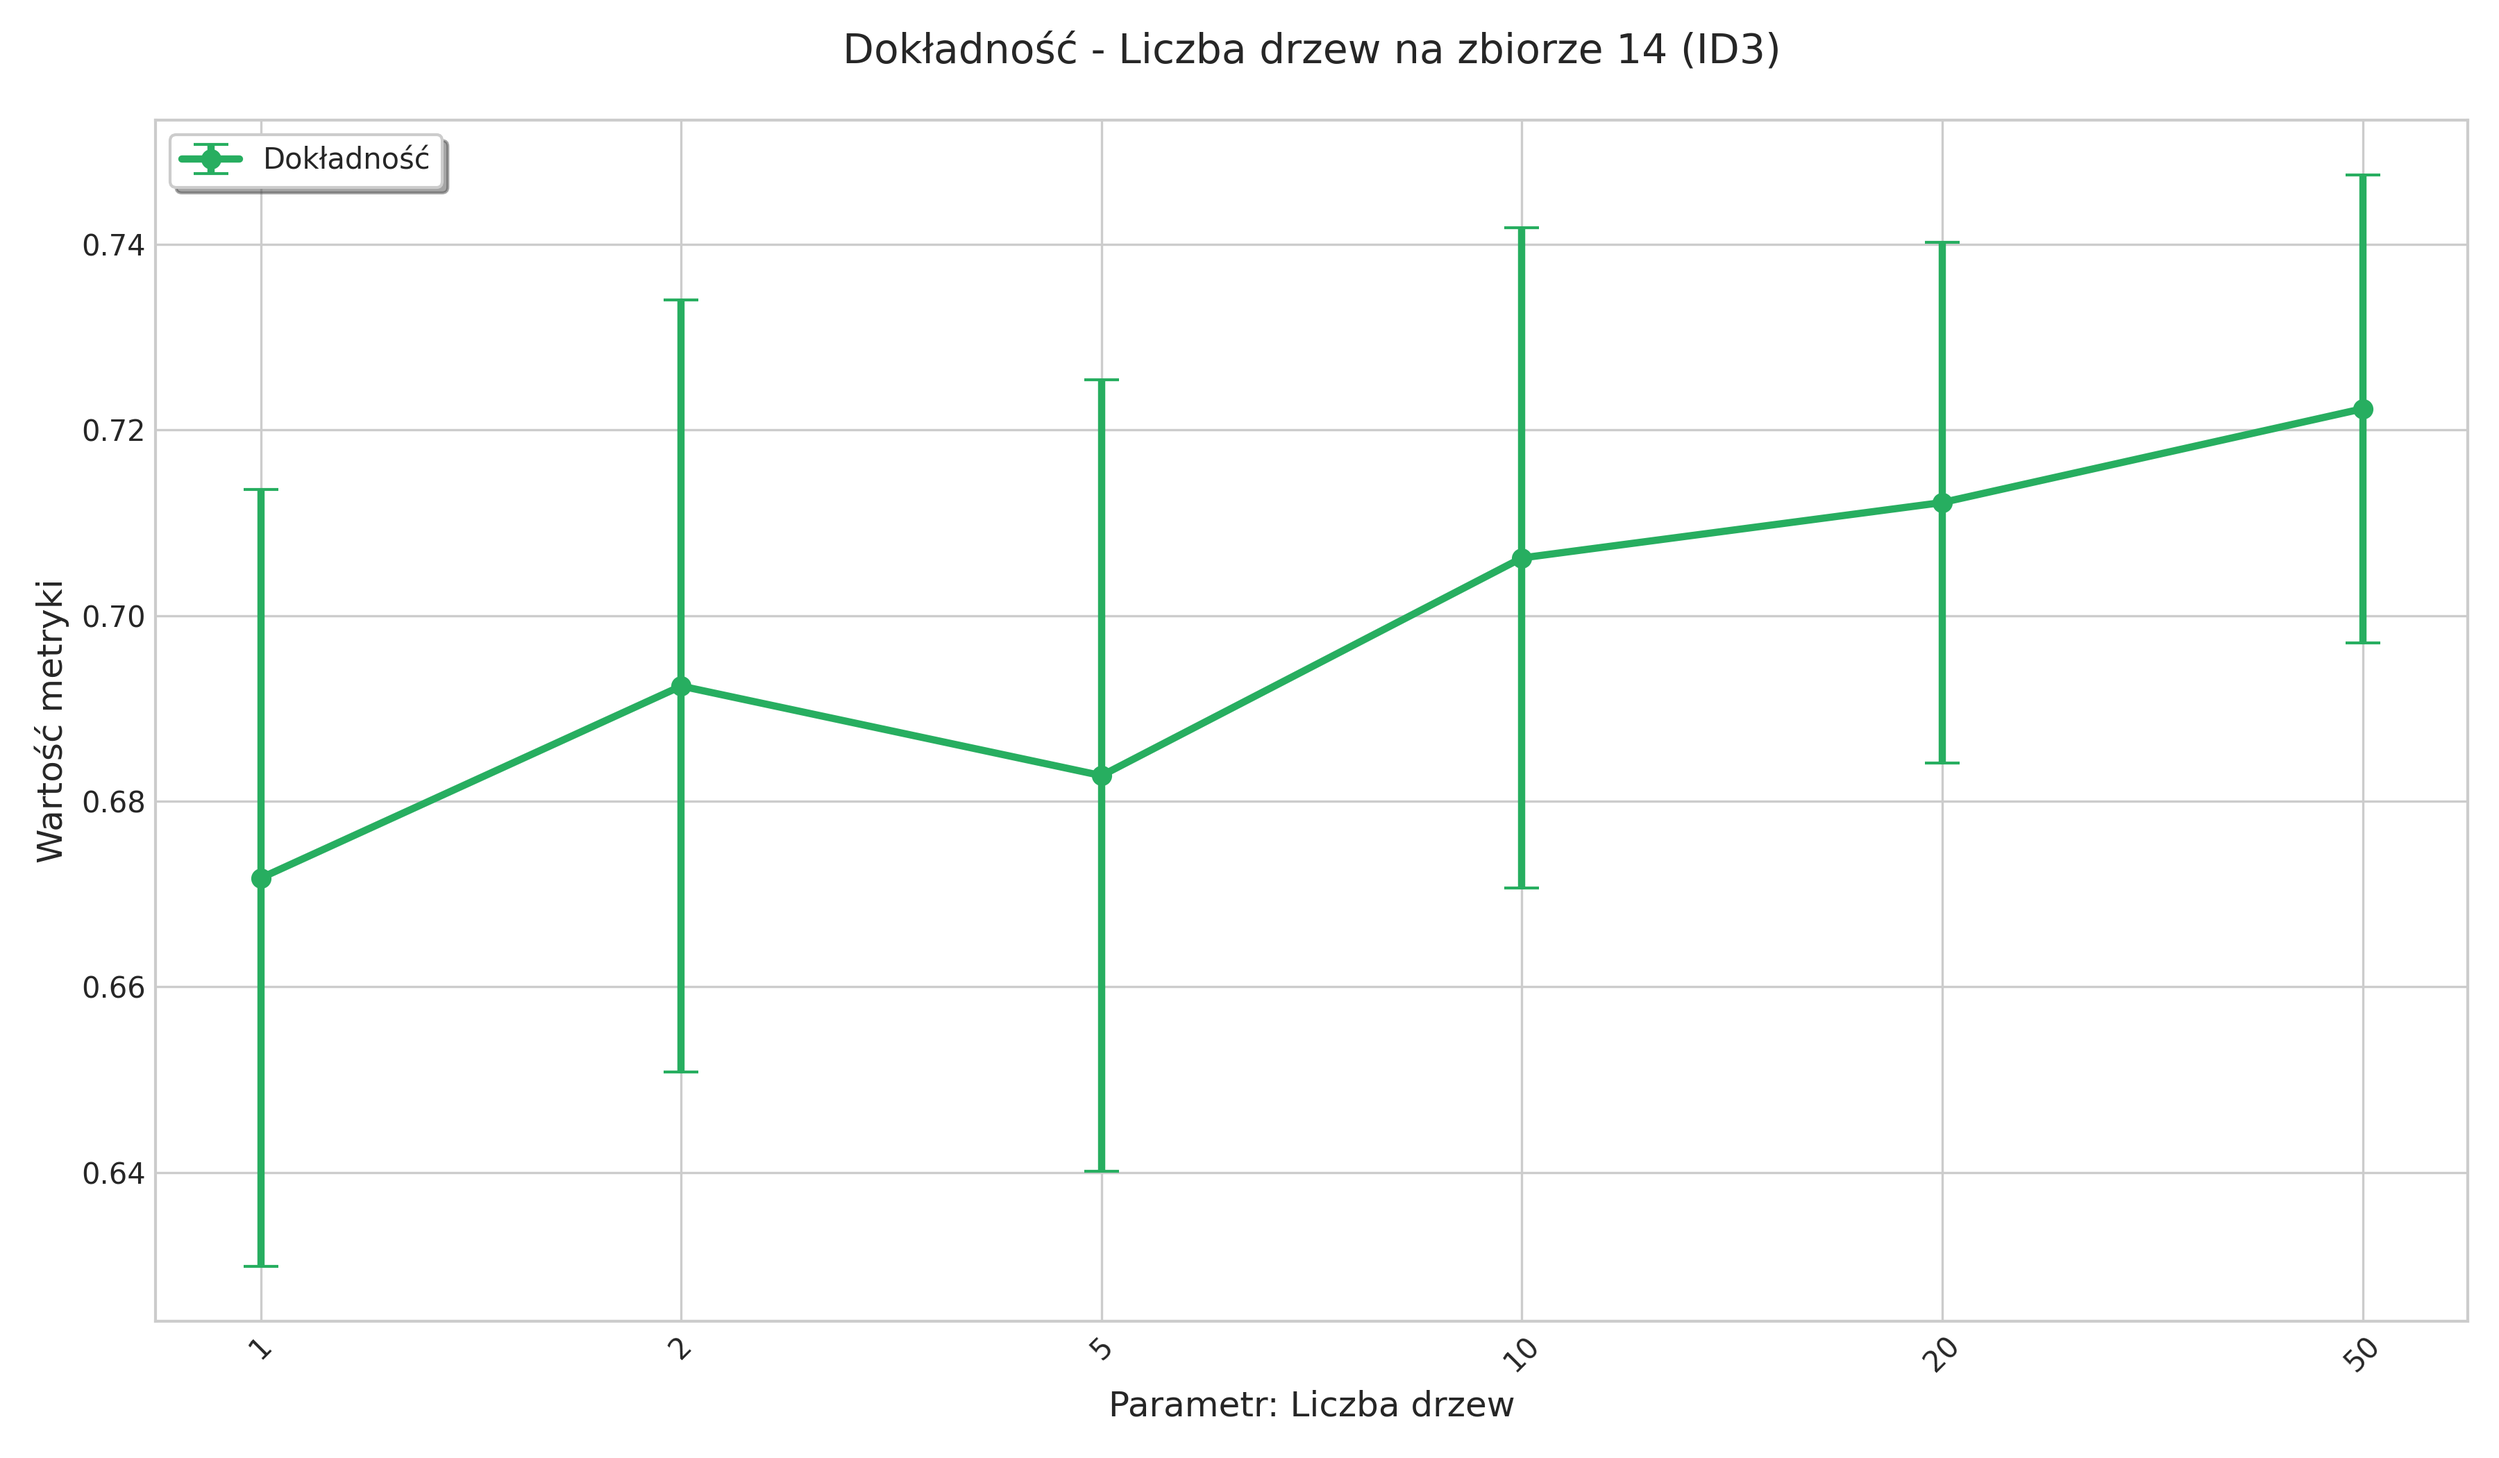
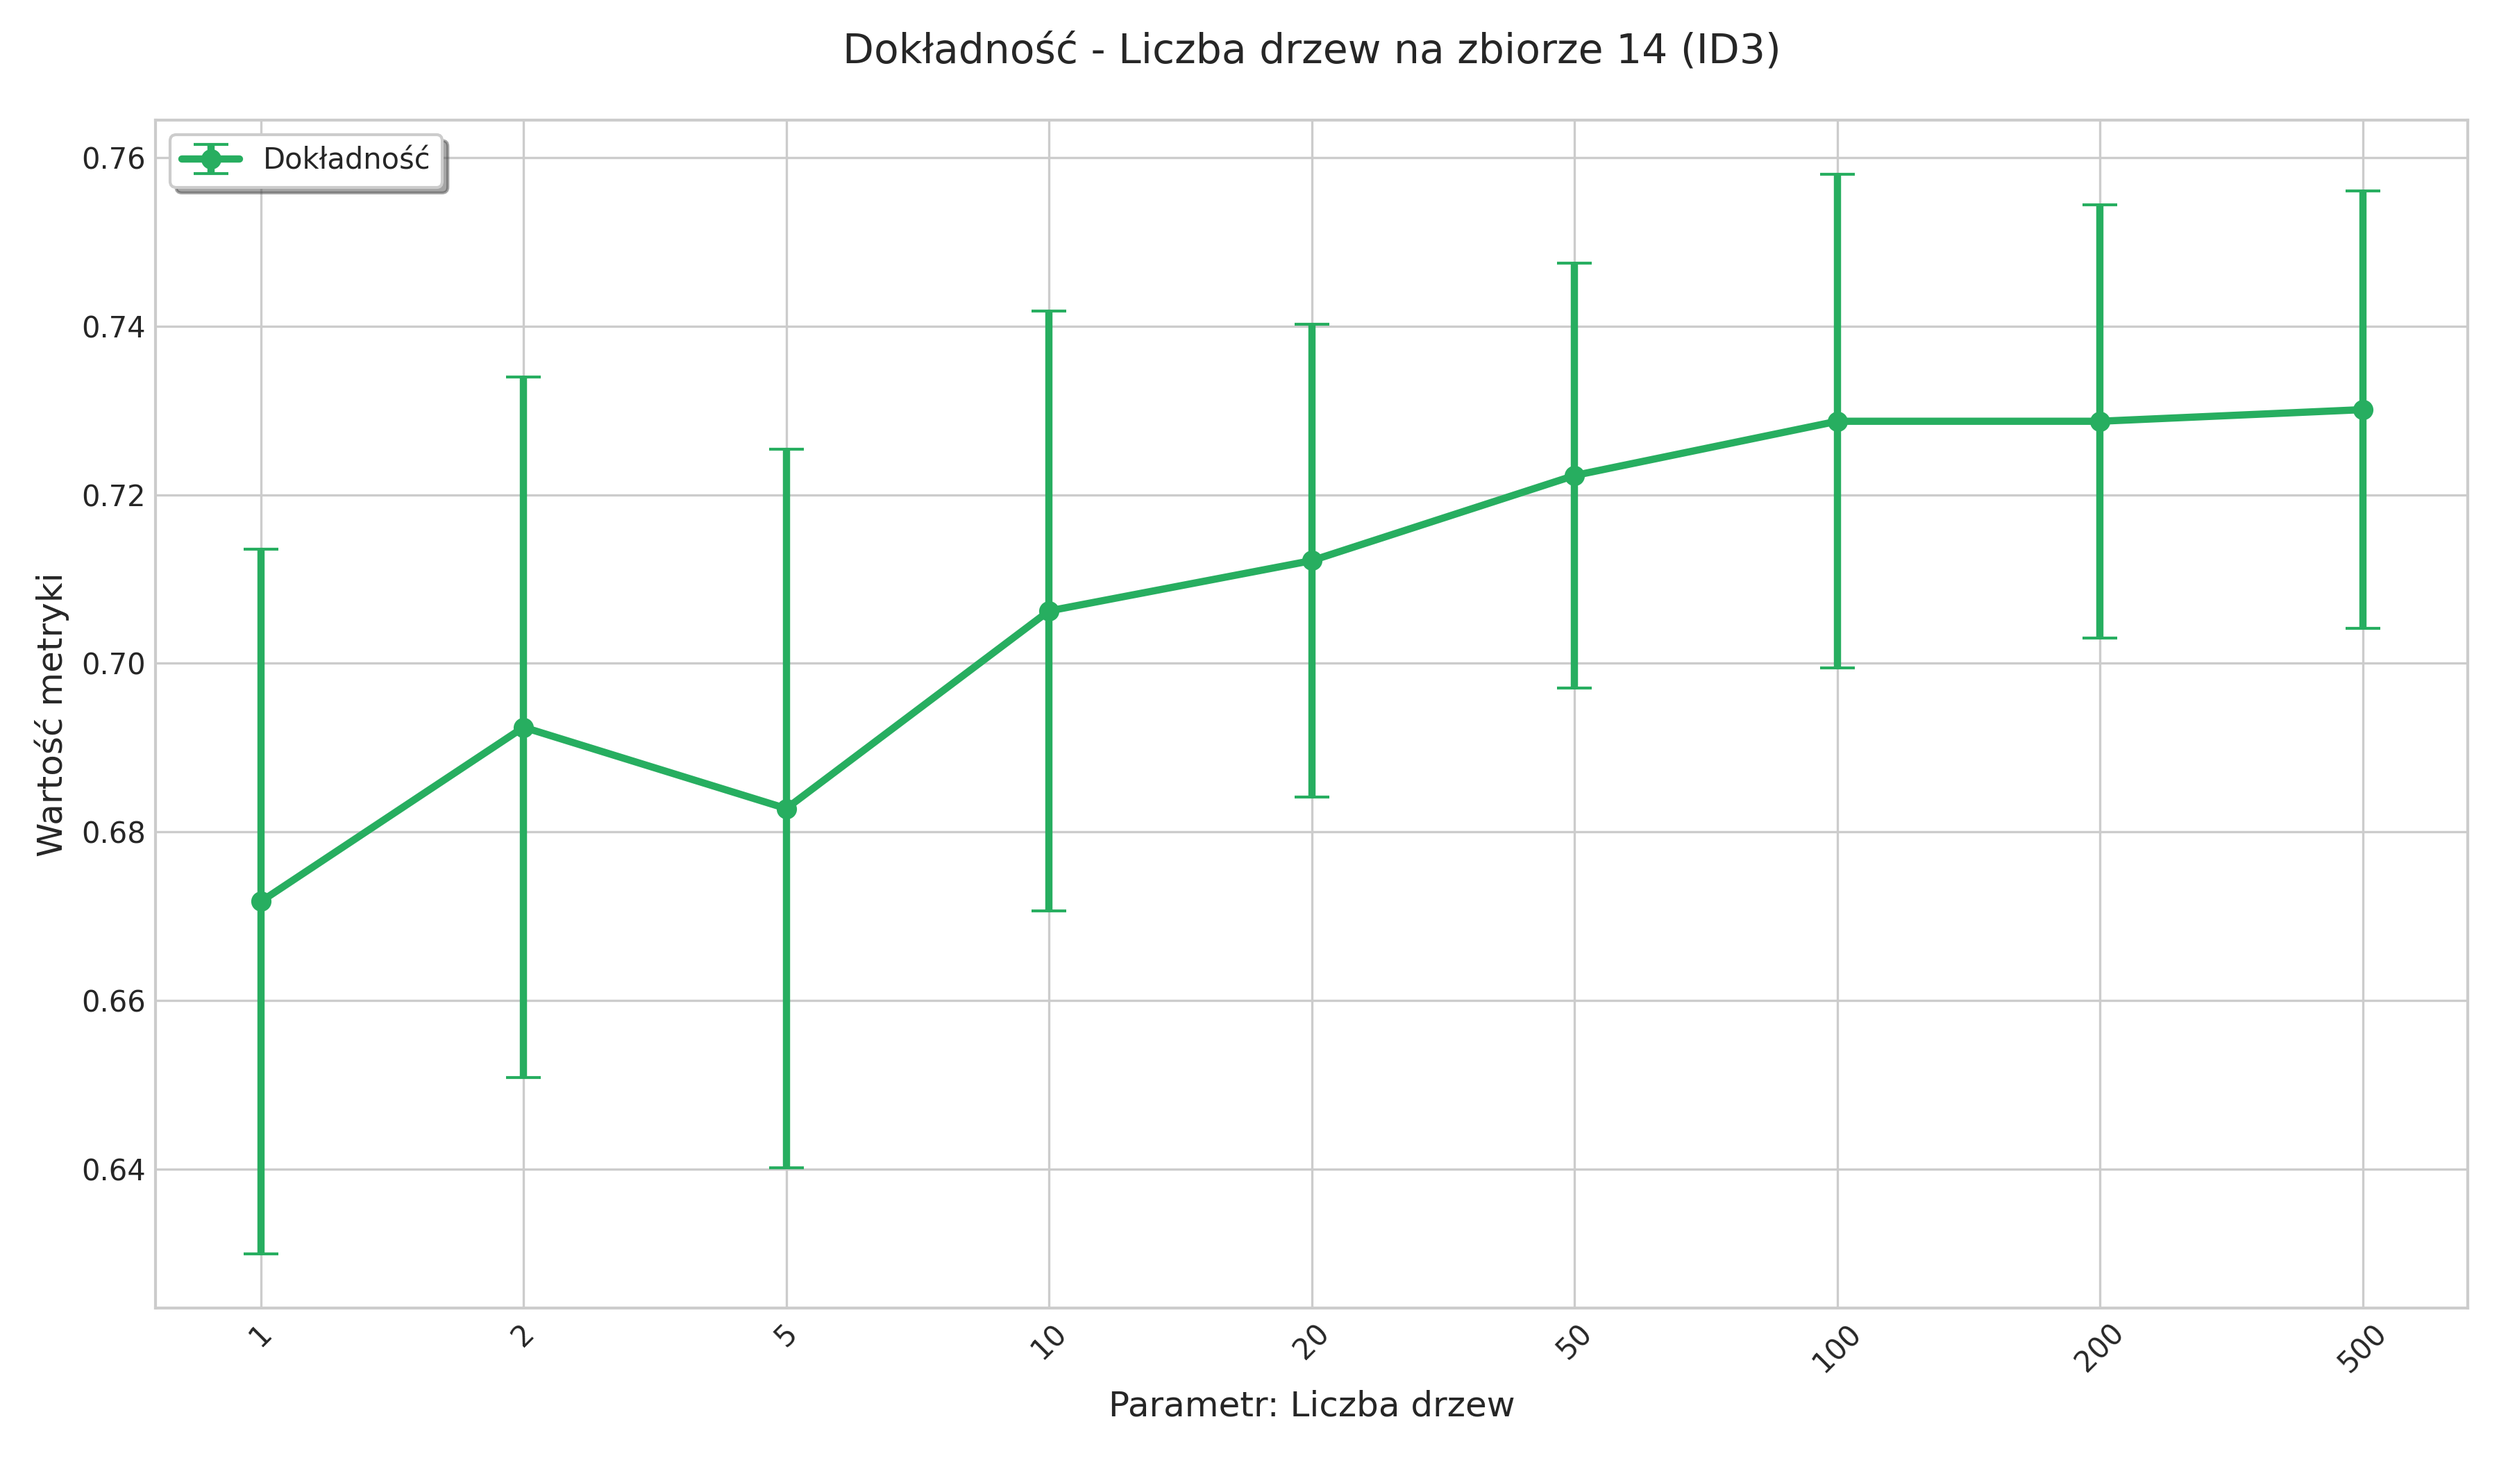
data: update ID3 tree count metrics and add new evaluation entries

diff --git a/tables/ID3_tree_count_14_f1.tex b/tables/ID3_tree_count_14_f1.tex
@@ -9,12 +9,15 @@
 \toprule
 Liczba drzew & Średnia & Std & Maks & Min \\
 \hline
-\textbf{1} & \textbf{0.39} & \textbf{0.06} & \textbf{0.50} & \textbf{0.29} \\
+1 & 0,39 & 0,06 & 0,50 & 0,29 \\
 2 & 0,23 & 0,09 & 0,38 & 0,07 \\
 5 & 0,36 & 0,07 & 0,50 & 0,21 \\
 10 & 0,32 & 0,09 & 0,58 & 0,18 \\
 20 & 0,35 & 0,07 & 0,52 & 0,18 \\
 50 & 0,38 & 0,08 & 0,52 & 0,18 \\
+\textbf{100} & \textbf{0.39} & \textbf{0.08} & \textbf{0.54} & \textbf{0.26} \\
+200 & 0,38 & 0,08 & 0,52 & 0,26 \\
+500 & 0,39 & 0,08 & 0,51 & 0,24 \\
 \bottomrule
 \end{tabular}
 \end{table}

diff --git a/tables/ID3_tree_count_14.tex b/tables/ID3_tree_count_14.tex
@@ -14,7 +14,10 @@ Liczba drzew & Średnia & Std & Maks & Min \\
 5 & 0,68 & 0,04 & 0,77 & 0,56 \\
 10 & 0,71 & 0,04 & 0,77 & 0,63 \\
 20 & 0,71 & 0,03 & 0,76 & 0,67 \\
-\textbf{50} & \textbf{0.72} & \textbf{0.03} & \textbf{0.77} & \textbf{0.67} \\
+50 & 0,72 & 0,03 & 0,77 & 0,67 \\
+100 & 0,73 & 0,03 & 0,78 & 0,68 \\
+200 & 0,73 & 0,03 & 0,77 & 0,68 \\
+\textbf{500} & \textbf{0.73} & \textbf{0.03} & \textbf{0.77} & \textbf{0.68} \\
 \bottomrule
 \end{tabular}
 \end{table}

diff --git a/tables/ID3_tree_count_14_precision.tex b/tables/ID3_tree_count_14_precision.tex
@@ -14,7 +14,10 @@ Liczba drzew & Średnia & Std & Maks & Min \\
 5 & 0,47 & 0,11 & 0,75 & 0,23 \\
 10 & 0,53 & 0,13 & 0,80 & 0,33 \\
 20 & 0,55 & 0,12 & 0,86 & 0,40 \\
-\textbf{50} & \textbf{0.57} & \textbf{0.10} & \textbf{0.86} & \textbf{0.40} \\
+50 & 0,57 & 0,10 & 0,86 & 0,40 \\
+100 & 0,60 & 0,11 & 0,83 & 0,42 \\
+200 & 0,60 & 0,10 & 0,80 & 0,42 \\
+\textbf{500} & \textbf{0.61} & \textbf{0.10} & \textbf{0.80} & \textbf{0.44} \\
 \bottomrule
 \end{tabular}
 \end{table}

diff --git a/tables/ID3_tree_count_14_recall.tex b/tables/ID3_tree_count_14_recall.tex
@@ -15,6 +15,9 @@ Liczba drzew & Średnia & Std & Maks & Min \\
 10 & 0,24 & 0,09 & 0,54 & 0,12 \\
 20 & 0,27 & 0,08 & 0,50 & 0,12 \\
 50 & 0,29 & 0,08 & 0,42 & 0,12 \\
+100 & 0,30 & 0,07 & 0,42 & 0,19 \\
+200 & 0,29 & 0,07 & 0,42 & 0,15 \\
+500 & 0,29 & 0,08 & 0,42 & 0,15 \\
 \bottomrule
 \end{tabular}
 \end{table}

diff --git a/tables/ID3_tree_count_14_time.tex b/tables/ID3_tree_count_14_time.tex
@@ -15,6 +15,9 @@ Liczba drzew & Średnia & Std & Maks & Min \\
 10 & 2,24 & 0,15 & 2,77 & 2,05 \\
 20 & 3,91 & 0,19 & 4,25 & 3,61 \\
 50 & 4,43 & 0,22 & 5,15 & 4,00 \\
+100 & 4,93 & 0,75 & 6,90 & 2,85 \\
+200 & 4,84 & 0,35 & 5,46 & 4,32 \\
+500 & 5,25 & 0,24 & 5,79 & 4,83 \\
 \bottomrule
 \end{tabular}
 \end{table}
